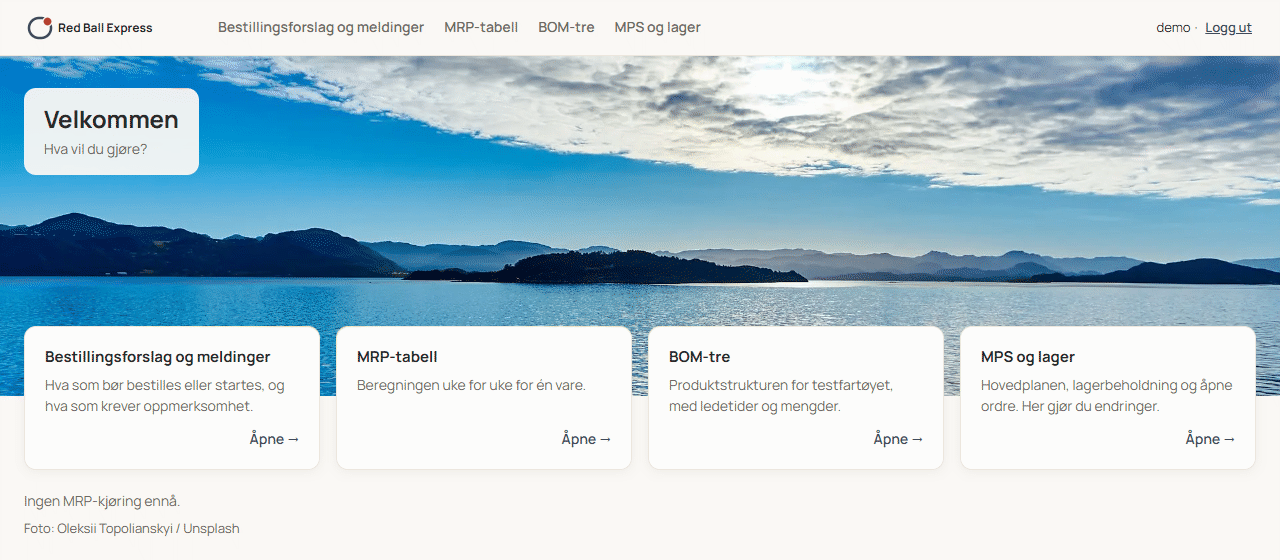
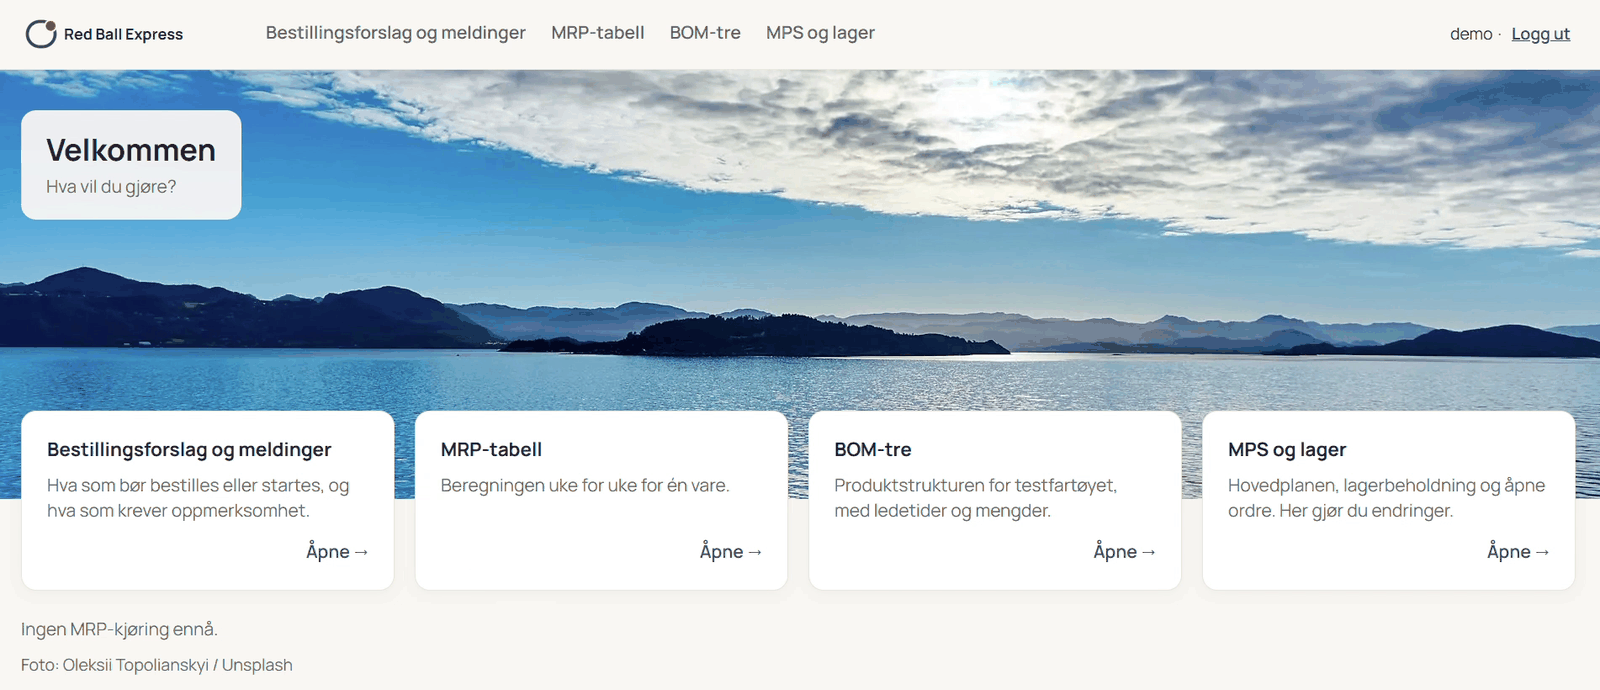
Ta skjermbildene på nytt fra opptak i ekte nettleser og oppdater regelen
Skjermbildene av startsiden og innloggingen er hentet fra brukerens
skjermopptak i full skjerm i stedet for Edge uten vindu, etter ønske fra
brukeren. CLAUDE.md og AI-loggen er oppdatert.

diff --git a/docs/ai-log.md b/docs/ai-log.md
@@ -287,3 +287,16 @@ Legg til én ny oppføring under **Logg** etter en KI-sesjon som endrer kode, te
   - Skjermbildet `docs/media/2026-11-26-innlogging.png` er oppdatert, og DESIGN.md (`login-card`) beskriver knappen.
 - **Verifisering**: `npm run build`, `npx biome check` og `npm run test` (10 tester) gir 0 feil. Skjermbildet fra Edge uten vindu viser knappen til høyre for etiketten.
 - **Commit**: commiten med koden og skjermbildet, og commiten med DESIGN.md og denne oppføringen.
+
+## 2026-11-26 — Skjermbilder fra ekte nettleser i stedet for Edge uten vindu
+
+- **Hvorfor**: Brukeren påpekte at skjermbildene tatt med Edge uten vindu ikke ga et riktig bilde av appen («Der ligger skrift utenfor boksene. Det må gjøres i en nettleser i full skjerm utenfor terminal, eller underveis i videoen»).
+- **Prompt(er)**: Se over. Det er en rettelse av en KI-praksis som stod i CLAUDE.md.
+- **Verktøy/modell**: Claude Code (Opus 5.5). ffmpeg (via `imageio-ffmpeg`) og Pillow.
+- **Endringer**:
+  - `docs/media/2026-11-26-startside.png` og `2026-11-26-innlogging.png` er tatt på nytt. Bildene er hentet fra brukerens skjermopptak i full skjerm (1902 × 1118): startsiden fra 0:34,5 og innloggingen fra 0:39,5.
+  - Nettleserrammen er beskåret bort. Cursoren på startsiden er dekket med bakgrunnsfargen.
+  - Bildene er komprimert til 243 kB og 20 kB.
+  - CLAUDE.md, under «Skjermbilder og video», sier nå at skjermbilder av appen skal vise den i en ekte nettleser i full skjerm.
+- **Verifisering**: Bildene er sjekket visuelt: ingen cursor, ingen nettleserramme og ingen hemmeligheter.
+- **Commit**: commiten som inneholder bildene, CLAUDE.md og denne oppføringen.

diff --git a/CLAUDE.md b/CLAUDE.md
@@ -21,7 +21,7 @@ Etter hver økt som endrer kode, tester eller planleggingsdokumenter, legg til e
 
 ## Skjermbilder og video
 
-Sensor bruker skjermbilder og video i repoet som dokumentasjon av design og funksjonalitet, og som reserve hvis appen ikke lar seg kjøre. **Skjermbilder tar Claude selv** med Edge uten vindu (`msedge --headless=new --screenshot=… --window-size=…`) av HTML-skisser eller av appen når den kjører lokalt. Bildet beskjæres til innholdet og komprimeres før commit. **Video tar brukeren**, så Claude minner om den. Ved disse tidspunktene:
+Sensor bruker skjermbilder og video i repoet som dokumentasjon av design og funksjonalitet, og som reserve hvis appen ikke lar seg kjøre. **Skjermbilder av appen skal vise den i en ekte nettleser i full skjerm**, ikke fra Edge uten vindu (`--headless`), som ikke gir et riktig bilde. Claude henter dem som bilder fra brukerens skjermopptak, eller ber brukeren ta et kort opptak. Nettleserrammen beskjæres bort, cursor fjernes, og bildet komprimeres før commit. Edge uten vindu kan fortsatt brukes til å teste i nettleseren og til skisser i HTML. **Video tar brukeren**, så Claude minner om den. Ved disse tidspunktene:
 
 - **Et skjermbilde eller en brukerflyt virker for første gang**, f.eks. når en story med brukergrensesnitt er ferdig: skjermbilde.
 - **UX-skisser eller wireframes er laget**: legg dem i repoet som spor av designarbeid.
